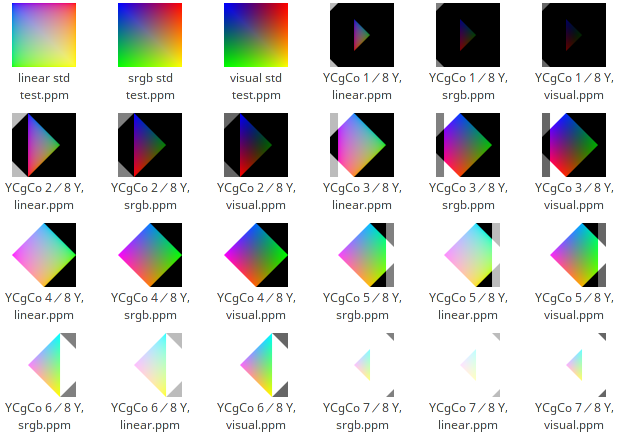
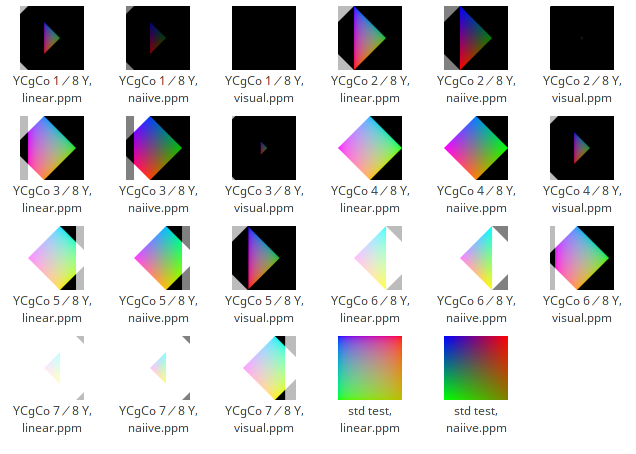
Fix everything

diff --git a/bmp.cpp b/bmp.cpp
@@ -22,22 +22,19 @@ uint8_t fix(float capme)
     return (int8_t)capme;
 }
 
-// srgb is our reference space, so these are backwards. Sorry~
-// If you plug 0.5 srgb (perceptually close to 50%) into tolinear, you will get a larger value out
-//   because linear is "brighter".
-float tosrgb(float linear)
-{
-	if(linear > 0.04045)
-		return pow((linear + 0.055)/1.055, 2.4);
-	else
-		return linear/12.92;
-}
 float tolinear(float srgb)
 {
-	if(srgb > 0.0031308)
-		return 1.055*pow(srgb, 1/2.4) - 0.055;
+	if(srgb > 0.04045)
+		return pow((srgb + 0.055)/1.055, 2.4);
 	else
-		return srgb*12.92;
+		return srgb/12.92;
+}
+float tosrgb(float linear)
+{
+	if(linear > 0.0031308)
+		return 1.055*pow(linear, 1/2.4) - 0.055;
+	else
+		return linear*12.92;
 }
 
 struct triad
@@ -60,15 +57,11 @@ struct image
 	unsigned short height;
 	vector<triad> data;
 	
-	bool linear;
-	
 	image()
 	{
 		width = 1;
 		height = 1;
 		data = {triad()};
-		
-		linear = false;
 	}
 	
 	triad& operator()(unsigned short x, unsigned short y)
@@ -86,27 +79,21 @@ struct image
 	
 	void makelinear()
 	{
-		if(linear) return;
-		
 		for(auto& t : data)
 		{
 			t.r = tolinear(t.r);
 			t.g = tolinear(t.g);
 			t.b = tolinear(t.b);
 		}
-		linear = true;
 	}
 	void makesrgb()
 	{
-		if(!linear) return;
-		
 		for(auto& t : data)
 		{
 			t.r = tosrgb(t.r);
 			t.g = tosrgb(t.g);
 			t.b = tosrgb(t.b);
 		}
-		linear = false;
 	}
 	void applygamma(float g)
 	{
@@ -132,9 +119,6 @@ struct image
 		printf("writing file %s\n", filename);
 		if(file != NULL)
 		{
-			bool waslinear = linear;
-			makesrgb();
-			
 			printf("w h : %d %d\n", width, height);
 			fprintf(file, "P6 %d %d 255\n", width, height);
 			for(auto& t : data)
@@ -143,8 +127,6 @@ struct image
 				fputc(fix(t.g), file);
 				fputc(fix(t.b), file);
 			}
-			
-			if(waslinear) makelinear();
 		
 			fclose(file);
 		}
@@ -199,32 +181,31 @@ int main()
 	{
 		for(auto y = 0; y < myimage.height; y++)
 		{
-			myimage(x, y).r = x/255.0;
-			myimage(x, y).g = y/255.0;
-			myimage(x, y).b = (255-max(x,y))/255.0;
+			myimage(x, y).r = x/255.0 * ((510-y)/510.0);
+			myimage(x, y).g = y/255.0 * ((510-x)/510.0);
+			myimage(x, y).b = 1.0 - myimage(x, y).r - myimage(x, y).g;
 		}
 	}
-	myimage.writefile("srgb std test.ppm");
-	myimage.makelinear();
-	myimage.linear = false;
-	myimage.writefile("linear std test.ppm");
-	myimage.applygamma(3.0);
-	myimage.writefile("visual std test.ppm");
+	myimage.writefile("std test, naiive.ppm");
+	// linear converted to srgb for even display of color shifts
+	myimage.makesrgb();
+	myimage.writefile("std test, linear.ppm");
 	
-	
-	
+	int c;
 	for(int c = 1; c < 8; c++)
 	{
+		std::string filename;
 		makeYCgCoPlane(myimage, c/8.0);
 		
-		std::string filename;
-		filename = "YCgCo " + to_string(c) + "／8 Y, srgb.ppm";
+		filename = "YCgCo " + to_string(c) + "／8 Y, naiive.ppm";
 		myimage.writefile(filename.data());
-		myimage.makelinear();
-		myimage.linear = false;
+		
+	    myimage.makesrgb();
 		filename = "YCgCo " + to_string(c) + "／8 Y, linear.ppm";
 		myimage.writefile(filename.data());
-		myimage.applygamma(3.0);
+		
+		makeYCgCoPlane(myimage, pow(c/8.0, 3.0));
+	    myimage.makesrgb();
 		filename = "YCgCo " + to_string(c) + "／8 Y, visual.ppm";
 		myimage.writefile(filename.data());
 	}
